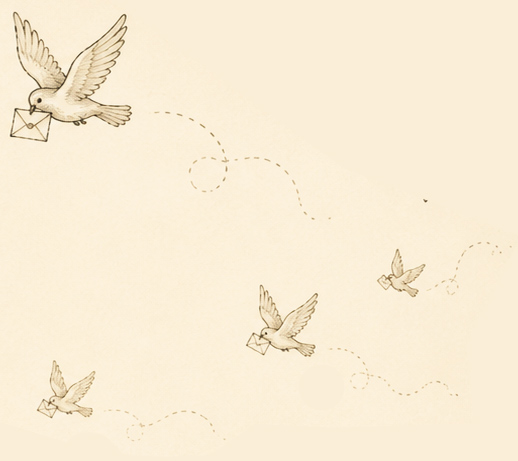
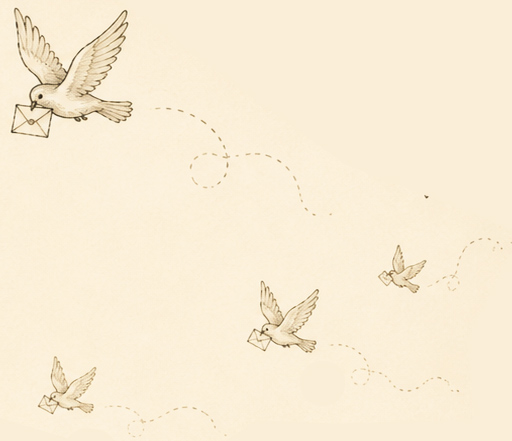
fix: hero composition restored — two-line headline, viewport-scaling art, seamless birds

diff --git a/styles.css b/styles.css
@@ -110,12 +110,17 @@ h3 { font-size: 23px; margin-bottom: 10px; }
   width: 0.19em; height: 0.19em; border-radius: 50%; background: var(--clay);
 }
 
-/* ── Hero: copy left, artwork pinned flush to the top-right ──────────
-   The text block's padding dictates the hero's height; the art fills that
-   height at its native aspect (height: 100%, width: auto), so its size and
-   its distance from the copy stay constant at every browser width. */
-.hero { position: relative; padding: 96px 0 110px; overflow: hidden; }
-.hero .container { max-width: 1640px; } /* content edge matches the nav's */
+/* ── Hero: copy left, artwork flush top-right, scaling with the window ──
+   The art holds ~56% of the viewport width at its native aspect, so the
+   original composition (art beside a fixed-measure text column) persists —
+   wider browsers simply get a proportionally larger scene. */
+.hero {
+  position: relative; padding: 96px 0 110px;
+  min-height: 40.5vw; /* the 56vw-wide art's height at its aspect ratio */
+  display: flex; align-items: center;
+  overflow: hidden;
+}
+.hero > .container { max-width: 1640px; width: 100%; } /* edge matches the nav's */
 .hero-copy { position: relative; z-index: 1; text-align: left; max-width: 640px; }
 .hero-sub {
   font-size: 19px; color: var(--ink-soft);
@@ -126,22 +131,24 @@ h3 { font-size: 23px; margin-bottom: 10px; }
   display: flex; align-items: center; gap: 18px; flex-wrap: wrap;
 }
 .hero-art2 {
-  position: absolute; top: 0; right: 0; height: 100%;
+  position: absolute; top: 0; right: 0;
+  width: 56vw;
 }
 .hero-art2-main {
-  display: block; height: 100%; width: auto;
+  display: block; width: 100%; height: auto;
 }
 .hero-art2-birds {
   position: absolute; top: 6%; left: 5%;
   width: 31%; height: auto;
-  mix-blend-mode: multiply; /* only the sketch lines land on the scene */
+  mix-blend-mode: multiply;
+  filter: brightness(1.07); /* pushes the JPG's cream to white so multiply leaves only ink */
   transition-delay: 0.7s; /* the birds arrive after the scene settles */
 }
 
 @media (max-width: 1180px) {
-  .hero { padding-bottom: 0; }
-  .hero-art2 { position: relative; height: auto; margin-top: 44px; text-align: right; }
-  .hero-art2-main { height: auto; width: 100%; max-width: 720px; margin-left: auto; }
+  .hero { padding-bottom: 0; min-height: 0; display: block; }
+  .hero-art2 { position: relative; width: 100%; margin-top: 44px; text-align: right; }
+  .hero-art2-main { width: 100%; max-width: 720px; margin-left: auto; }
 }
 
 /* ── Section rhythm & washes ── */
